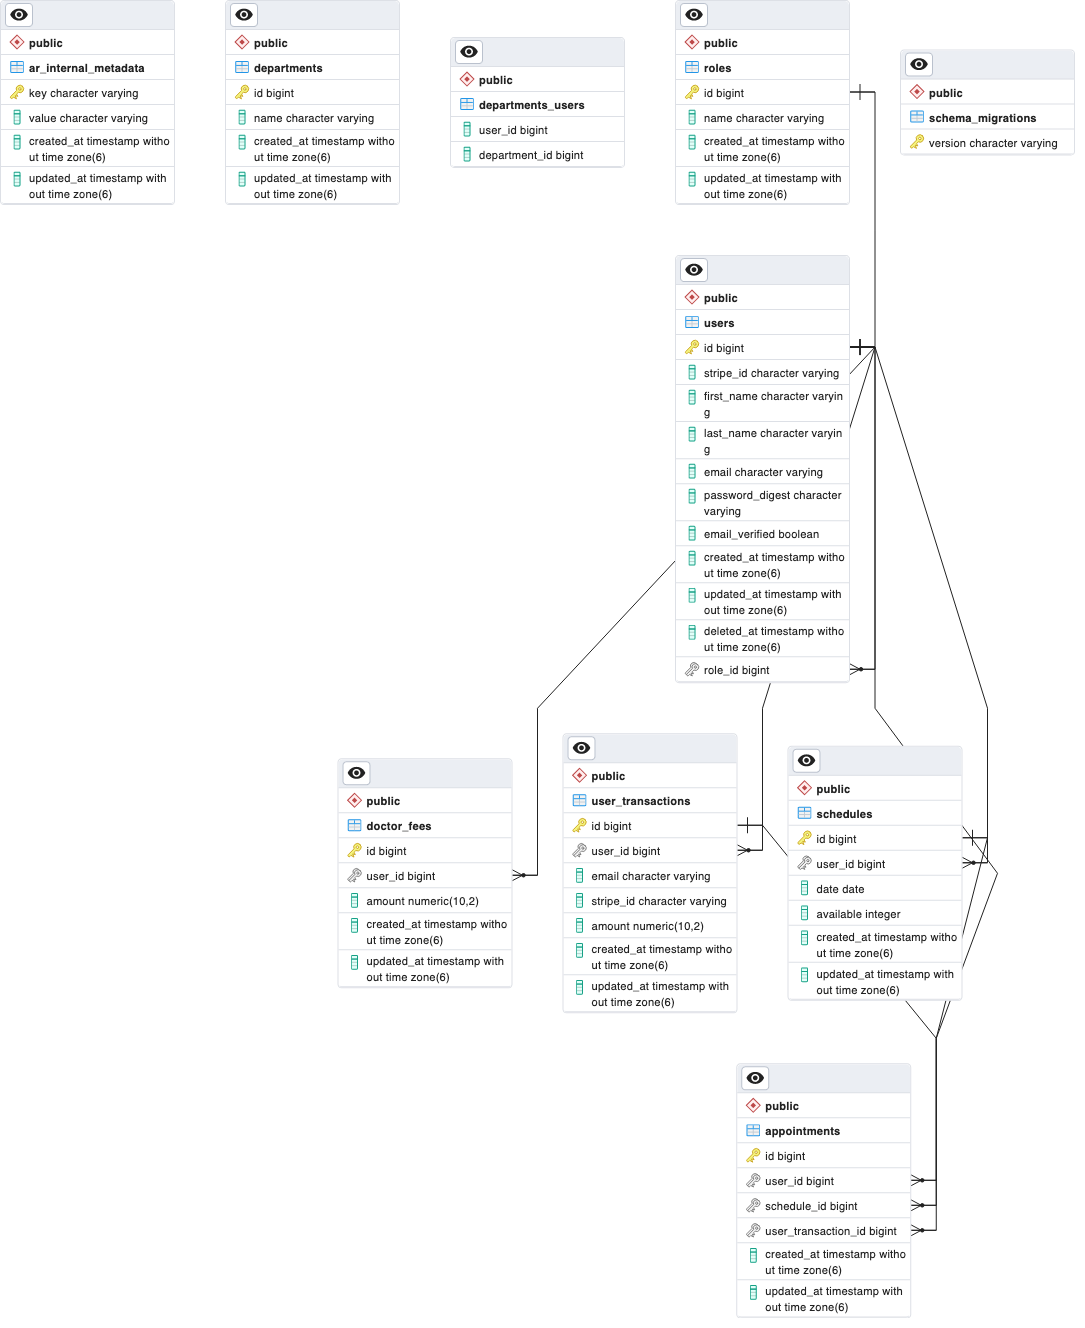
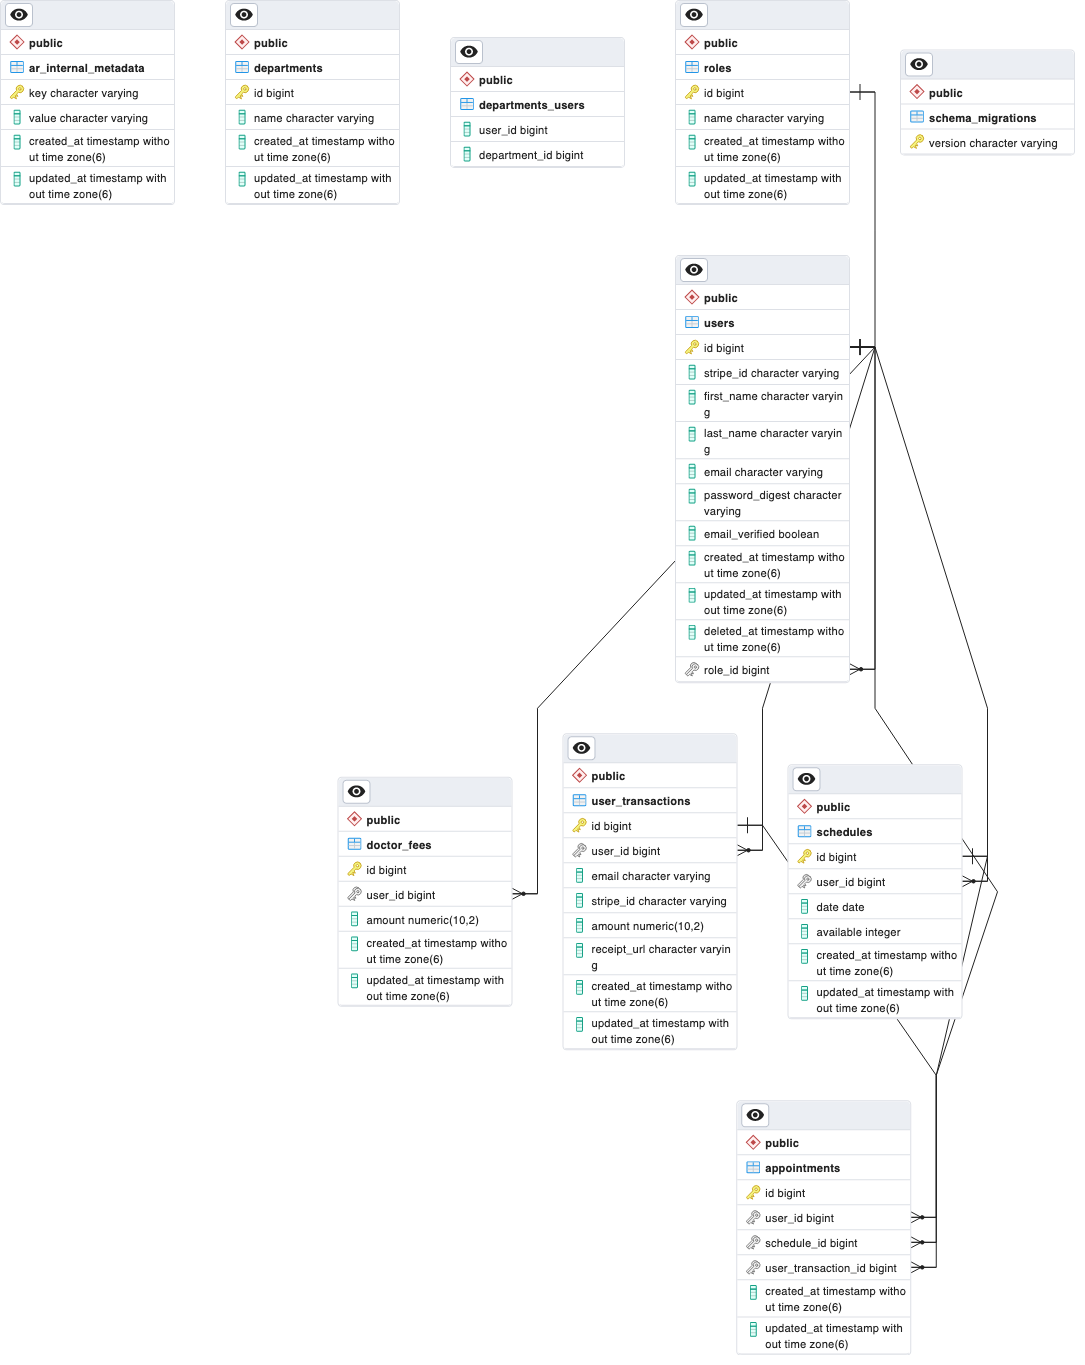
Update README.md

diff --git a/app/controllers/api/v1/appointments_controller.rb b/app/controllers/api/v1/appointments_controller.rb
@@ -68,7 +68,8 @@ class Api::V1::AppointmentsController < ApplicationController
             user_id: @current_user.id,
             email: @current_user.email,
             stripe_id: charge[:id],
-            amount: charge[:amount].to_f / 100
+            amount: charge[:amount].to_f / 100,
+            receipt_url: charge[:receipt_url]
           }
           user_transaction = UserTransaction.new(user_transaction)
 

diff --git a/db/schema.rb b/db/schema.rb
@@ -64,6 +64,7 @@ ActiveRecord::Schema[7.0].define(version: 2022_11_15_151602) do
     t.string "email"
     t.string "stripe_id"
     t.decimal "amount", precision: 10, scale: 2
+    t.string "receipt_url"
     t.datetime "created_at", null: false
     t.datetime "updated_at", null: false
     t.index ["user_id"], name: "index_user_transactions_on_user_id"

diff --git a/db/migrate/20221115150610_create_user_transactions.rb b/db/migrate/20221115150610_create_user_transactions.rb
@@ -5,6 +5,7 @@ class CreateUserTransactions < ActiveRecord::Migration[7.0]
       t.string :email
       t.string :stripe_id
       t.decimal :amount, precision: 10, scale: 2
+      t.string :receipt_url
 
       t.timestamps
     end

diff --git a/README.md b/README.md
@@ -1,11 +1,20 @@
 # rails-jivemed
 
+![ERD](./docs/images/screenshots/root.png)
+![ERD](./docs/images/screenshots/admin_dashboard.png)
+![ERD](./docs/images/screenshots/admin_add_patient.png)
+![ERD](./docs/images/screenshots/patient_add_appointment.png)
+![ERD](./docs/images/screenshots/patient_transactions.png)
+![ERD](./docs/images/screenshots/patient_view_transaction.png)
+![ERD](./docs/images/screenshots/doctor_appointments.png)
+
 This project is an application that allows users to create hospital appointments.
 
 ## Tech Stack
 
 - Ruby on Rails
 - React
+- Stripe API
 
 ## Features
 
@@ -34,8 +43,8 @@ This project is an application that allows users to create hospital appointments
 
 ## Live Demo
 
-https://rails-jivemed.onrender.com
+https://react-jivemed-426p.onrender.com
 
-## Frontend
+## Frontend Repo
 
 https://github.com/grenzk/react-jivemed
